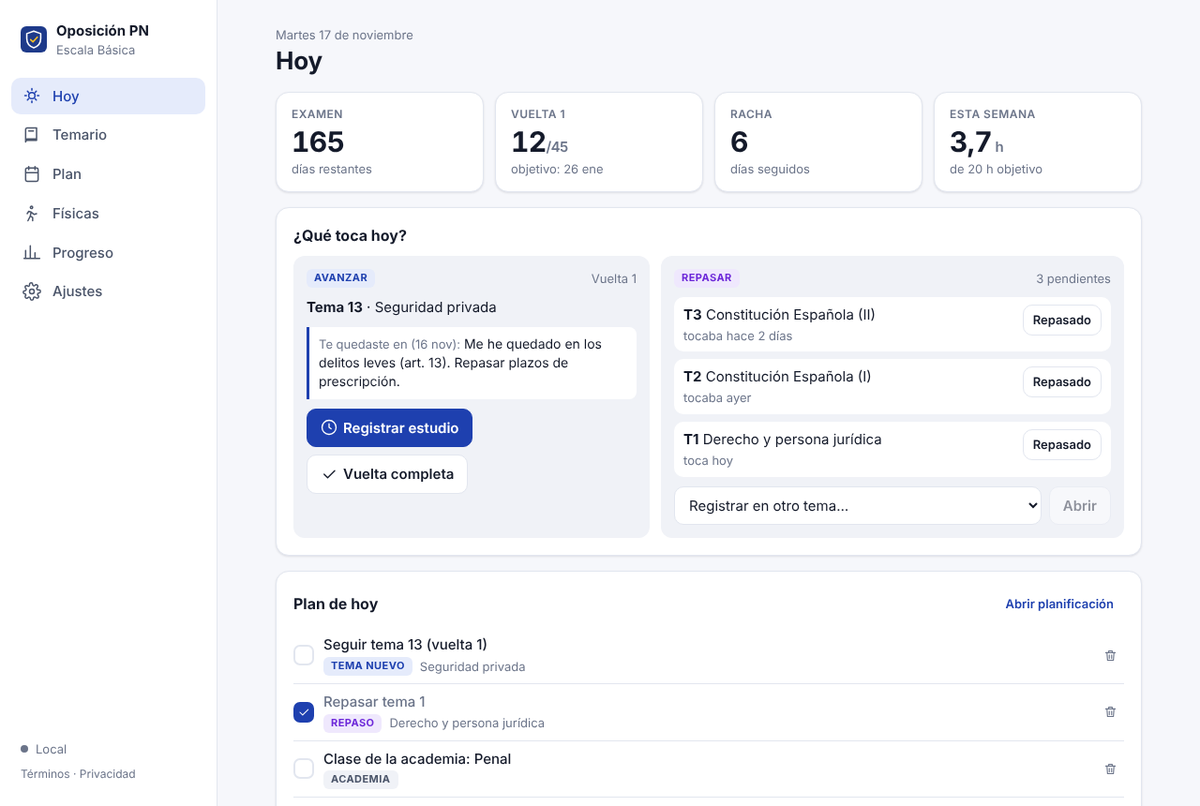
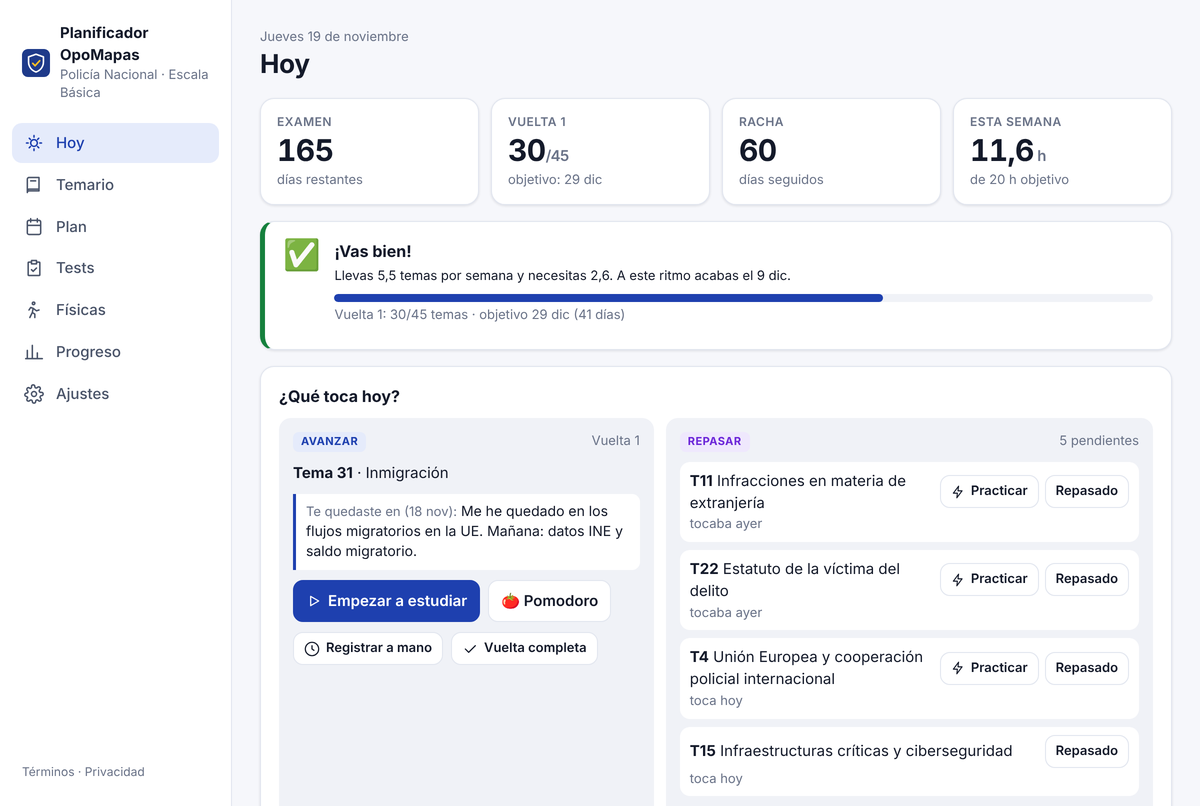
Renombrar la app a Planificador OpoMapas (Policía Nacional y Guardia Civil)
Claude-Session: https://claude.ai/code/session_01KSN7nYPSk48HiXtgdwnhJn

diff --git a/index.html b/index.html
@@ -10,8 +10,8 @@
     })();
   </script>
   <meta name="viewport" content="width=device-width, initial-scale=1, viewport-fit=cover" />
-  <title>Planificador para la oposición a Policía Nacional · Prueba gratis | OpoMapas</title>
-  <meta name="description" content="Organiza tu oposición a Policía Nacional (Escala Básica): los 45 temas, contador de vueltas, repasos, plan de estudio automático y pruebas físicas. Prueba gratis 3 días, pago único de 9,99 €." />
+  <title>Planificador de oposiciones a Policía Nacional y Guardia Civil · Prueba gratis | OpoMapas</title>
+  <meta name="description" content="Organiza tu oposición a Policía Nacional (Escala Básica) o Guardia Civil (Cabos y Guardias): temario, vueltas, repasos, tests, plan de estudio automático y pruebas físicas. Prueba gratis 3 días, pago único de 9,99 €." />
   <link rel="canonical" href="https://app.opomapas.com/" />
   <meta name="theme-color" content="#f6f7fb" media="(prefers-color-scheme: light)" />
   <meta name="theme-color" content="#0d1220" media="(prefers-color-scheme: dark)" />
@@ -21,15 +21,15 @@
   <meta property="og:site_name" content="OpoMapas" />
   <meta property="og:locale" content="es_ES" />
   <meta property="og:url" content="https://app.opomapas.com/" />
-  <meta property="og:title" content="Planificador de tu oposición a Policía Nacional" />
-  <meta property="og:description" content="Vueltas, repasos, plan de estudio y pruebas físicas en PC y móvil. Prueba gratis 3 días, sin tarjeta." />
+  <meta property="og:title" content="Planificador de tu oposición a Policía Nacional o Guardia Civil" />
+  <meta property="og:description" content="Vueltas, repasos, tests, plan de estudio y pruebas físicas en PC y móvil. Policía Nacional y Guardia Civil. Prueba gratis 3 días, sin tarjeta." />
   <meta property="og:image" content="https://app.opomapas.com/og-image.jpg" />
   <meta property="og:image:width" content="1200" />
   <meta property="og:image:height" content="630" />
-  <meta property="og:image:alt" content="Planificador de tu oposición a Policía Nacional, con la pantalla del plan del día" />
+  <meta property="og:image:alt" content="Planificador de tu oposición a Policía Nacional o Guardia Civil, con la pantalla del plan del día" />
   <meta name="twitter:card" content="summary_large_image" />
-  <meta name="twitter:title" content="Planificador de tu oposición a Policía Nacional" />
-  <meta name="twitter:description" content="Vueltas, repasos, plan de estudio y pruebas físicas. Prueba gratis 3 días." />
+  <meta name="twitter:title" content="Planificador de tu oposición a Policía Nacional o Guardia Civil" />
+  <meta name="twitter:description" content="Vueltas, repasos, tests, plan de estudio y pruebas físicas. Policía Nacional y Guardia Civil. Prueba gratis 3 días." />
   <meta name="twitter:image" content="https://app.opomapas.com/og-image.jpg" />
 
   <!-- Datos para Google: aplicación con su precio -->
@@ -37,13 +37,13 @@
   {
     "@context": "https://schema.org",
     "@type": "SoftwareApplication",
-    "name": "Planificador Policía Nacional",
-    "alternateName": "Oposición PN",
+    "name": "Planificador OpoMapas",
+    "alternateName": "Planificador de oposiciones a Policía Nacional y Guardia Civil",
     "applicationCategory": "EducationalApplication",
     "operatingSystem": "Web, Android, iOS, Windows, macOS",
     "url": "https://app.opomapas.com/",
     "image": "https://app.opomapas.com/og-image.jpg",
-    "description": "Aplicación web para organizar la oposición a la Escala Básica de la Policía Nacional: 45 temas, contador de vueltas, registro de estudio, repasos, plan automático y pruebas físicas.",
+    "description": "Aplicación web para organizar la oposición a la Escala Básica de la Policía Nacional o a la Escala de Cabos y Guardias de la Guardia Civil: temario, contador de vueltas, registro de estudio, repasos, tests y simulacros, plan automático y pruebas físicas.",
     "inLanguage": "es",
     "offers": { "@type": "Offer", "price": "9.99", "priceCurrency": "EUR", "url": "https://www.opomapas.com/products/planificador-policia-nacional-acceso-de-por-vida" },
     "publisher": { "@type": "Organization", "name": "OpoMapas", "url": "https://www.opomapas.com/" }
@@ -62,22 +62,24 @@
     Si cambias precios o textos en app-config.js, actualízalos también aquí.
   -->
   <div id="app"><div class="landing">
-    <header class="l-top"><a class="brand" href="/"><img src="icon.svg" alt="" width="30" height="30" /><div><b>Oposición PN</b><span class="muted small">Escala Básica</span></div></a></header>
+    <header class="l-top"><a class="brand" href="/"><img src="icon.svg" alt="" width="30" height="30" /><div><b>Planificador OpoMapas</b><span class="muted small">Policía Nacional y Guardia Civil</span></div></a></header>
     <section class="hero">
       <div class="hero-txt">
         <span class="pill">Prueba gratis 3 días · sin tarjeta</span> <span class="pill oferta-pill">Oferta de lanzamiento: 9,99 €</span>
-        <h1>Planifica tu oposición a Policía Nacional y da vueltas al temario sin perder el hilo.</h1>
-        <p class="lead">Vueltas, repasos, horas de estudio, plan semanal y pruebas físicas en un solo sitio. Pensado para la Escala Básica.</p>
+        <h1>Planifica tu oposición a Policía Nacional o Guardia Civil y da vueltas al temario sin perder el hilo.</h1>
+        <p class="lead">Vueltas, repasos, tests, horas de estudio, plan semanal y pruebas físicas en un solo sitio. Para la Escala Básica de Policía Nacional y la Escala de Cabos y Guardias de Guardia Civil.</p>
         <p class="muted small">Después, pago único de <b>9,99 €</b> <s>19,99 €</s> para siempre. Sin suscripciones.</p>
       </div>
       <div class="hero-img"><img src="captura.png" alt="Pantalla principal de la aplicación con el plan del día" width="1200" height="806" /></div>
     </section>
     <section class="feats">
-      <div class="feat"><h3>Los 45 temas, ordenados</h3><p>Ciencias Jurídicas, Sociales y Técnico-científicas. Clasifica cada tema: No lo sé, Flojo, Bien o Dominado.</p></div>
+      <div class="feat"><h3>Todo el temario, ordenado</h3><p>Los 45 temas de Policía Nacional o los 22 de Guardia Civil. Clasifica cada tema: No lo sé, Flojo, Bien o Dominado.</p></div>
       <div class="feat"><h3>Vueltas bajo control</h3><p>Contador de vueltas por tema y fecha objetivo para cerrar cada vuelta. Tú decides cuándo vuelves a cada tema.</p></div>
       <div class="feat"><h3>Por dónde te quedaste</h3><p>Registra cada sesión con minutos y una nota, o usa el temporizador y el Pomodoro. Al volver, sabes exactamente dónde retomar.</p></div>
       <div class="feat"><h3>Plan automático</h3><p>Reparte los temas que faltan hasta tu fecha objetivo, día a día, y añade tus clases y simulacros.</p></div>
-      <div class="feat"><h3>Pruebas físicas</h3><p>Agilidad, dominadas o suspensión y 1000 m: evolución de tus marcas y nota orientativa.</p></div>
+      <div class="feat"><h3>Tests y simulacros</h3><p>Apunta cada test: tu nota con la fórmula del examen, su evolución y los temas en los que más fallas.</p></div>
+      <div class="feat"><h3>Repaso rápido</h3><p>Preguntas tipo test y trampas de examen de cada tema, de OpoMapas, para repasar en 5 minutos.</p></div>
+      <div class="feat"><h3>Pruebas físicas</h3><p>Policía Nacional: nota orientativa de cada prueba. Guardia Civil: apto o no apto según tu edad.</p></div>
       <div class="feat"><h3>PC y móvil</h3><p>Sincronizado en todos tus dispositivos, instalable como app y funciona sin conexión.</p></div>
     </section>
     <section class="price-wrap"><div class="price">
@@ -89,11 +91,12 @@
       <details><summary>¿Necesito tarjeta para la prueba?</summary><p>No. Entras con tu cuenta de Google y tienes 3 días con todo desbloqueado.</p></details>
       <details><summary>¿Qué pasa cuando acaba la prueba?</summary><p>Si te convence, haces un único pago de 9,99 € y sigues donde lo dejaste: tus datos se conservan.</p></details>
       <details><summary>¿De por vida significa sin suscripción?</summary><p>Sí: pagas una vez y tienes acceso mientras el servicio exista, con todas las mejoras que se vayan añadiendo.</p></details>
-      <details><summary>¿Incluye temario o test?</summary><p>No. Es un planificador: organiza tu estudio con los apuntes y test de tu academia o los tuyos propios. Los mapas del temario están en la tienda OpoMapas.</p></details>
-      <details><summary>¿Es una herramienta oficial?</summary><p>No. Es una herramienta independiente, sin relación con la Dirección General de la Policía ni con el Ministerio del Interior.</p></details>
+      <details><summary>¿Sirve para Guardia Civil?</summary><p>Sí. Al empezar eliges Policía Nacional (Escala Básica) o Guardia Civil (Escala de Cabos y Guardias) y la app se adapta: temario, pruebas físicas y nota de los tests. Puedes cambiar cuando quieras.</p></details>
+      <details><summary>¿Incluye temario o test?</summary><p>No incluye el temario: organiza tu estudio con tus apuntes o los de tu academia. Sí trae un repaso rápido con preguntas tipo test y trampas de examen de cada tema (de OpoMapas, de elaboración propia) y te deja apuntar tus tests y simulacros. Los mapas del temario están en la tienda OpoMapas.</p></details>
+      <details><summary>¿Es una herramienta oficial?</summary><p>No. Es una herramienta independiente, sin relación con la Policía Nacional, la Guardia Civil ni el Ministerio del Interior.</p></details>
     </section>
     <footer class="l-foot"><div><a href="https://www.opomapas.com/?utm_source=app&amp;utm_medium=pie&amp;utm_campaign=planificador">Tienda OpoMapas</a></div>
-      <p class="muted small">Oposición PN es una herramienta independiente y no está vinculada a la Policía Nacional ni al Ministerio del Interior.</p></footer>
+      <p class="muted small">Planificador OpoMapas es una herramienta independiente y no está vinculada a la Policía Nacional, a la Guardia Civil ni al Ministerio del Interior.</p></footer>
   </div></div>
   <script type="module" src="app.js"></script>
 </body>

diff --git a/app-config.js b/app-config.js
@@ -5,8 +5,8 @@
 // =====================================================================
 export default {
   // --- Marca ---
-  nombre: 'Oposición PN',
-  subtitulo: 'Escala Básica',
+  nombre: 'Planificador OpoMapas',
+  subtitulo: 'Policía Nacional y Guardia Civil',
   // Aparece en la portada. No uses logos ni nombres que parezcan oficiales.
   eslogan: 'Planifica tu oposición a Policía Nacional o Guardia Civil y da vueltas al temario sin perder el hilo.',
 
@@ -18,7 +18,7 @@ export default {
   // Días de prueba gratis. ⚠ Si lo cambias, cambia también el número en firestore.rules
   // (duration.value(3, 'd')) o la app y la base de datos no coincidirán.
   diasPrueba: 3,
-  // Enlace de compra. Ahora apunta al producto "Planificador Policía Nacional · Acceso de por vida"
+  // Enlace de compra. Ahora apunta al producto "Planificador de oposiciones: Policía Nacional y Guardia Civil · Acceso de por vida"
   // de tu tienda Shopify (variante 61721546948942). También sirve cualquier otra plataforma de pago.
   // Puedes usar {email} y {uid}: se sustituyen por los del usuario para que el pago
   // llegue con su email ya rellenado. Ejemplos:

diff --git a/app.js b/app.js
@@ -1517,7 +1517,7 @@ function App() {
   const active = route === 'tema' ? 'temario' : route === 'cuenta' ? 'ajustes' : route;
   return html`<div class="shell">
     <nav class="side" aria-label="Secciones">
-      <div class="brand"><img src="icon.svg" alt="" width="28" height="28" /><div><b>${L.OPO.marca}</b><span class="muted small">${L.OPO.escala}</span></div></div>
+      <div class="brand"><img src="icon.svg" alt="" width="28" height="28" /><div><b>${CONFIG.nombre}</b><span class="muted small">${L.OPO.nombre} · ${L.OPO.escala}</span></div></div>
       ${NAV.map(([k, l]) => html`<a class=${'nav ' + (active === k ? 'on' : '')} href=${'#/' + k} aria-current=${active === k ? 'page' : null}><${Icon} n=${k} /><span>${l}</span></a>`)}
       ${acceso.esAdmin ? html`<a class=${'nav desk ' + (active === 'admin' ? 'on' : '')} href="#/admin"><${Icon} n="admin" /><span>Admin</span></a>` : null}
       <div class="side-f"><${SyncDot} /><div class="legal-links"><a href="#/legal/terminos">Términos</a> · <a href="#/legal/privacidad">Privacidad</a></div></div>

diff --git a/404.html b/404.html
@@ -1,5 +1,5 @@
 <!doctype html>
 <html lang="es"><head><meta charset="utf-8" /><meta name="viewport" content="width=device-width, initial-scale=1" />
-<title>Página no encontrada · Oposición PN</title><meta name="robots" content="noindex" /><link rel="stylesheet" href="/styles.css" /></head>
+<title>Página no encontrada · Planificador OpoMapas</title><meta name="robots" content="noindex" /><link rel="stylesheet" href="/styles.css" /></head>
 <body><div class="splash"><img src="/icon.svg" alt="" width="56" height="56" /><h1>Página no encontrada</h1>
 <p class="muted">La dirección no existe.</p><a class="btn primary" href="/">Ir al planificador</a></div></body></html>

diff --git a/VENDER.md b/VENDER.md
@@ -4,7 +4,7 @@
 
 1. Alguien entra en la web de la app y ve la **portada** con precio y preguntas frecuentes.
 2. Pulsa **"Empezar prueba gratis con Google"**. Se crea su cuenta y empiezan sus **3 días de prueba** con todo desbloqueado. La fecha de inicio la pone el servidor de Google, así que no se puede trucar.
-3. Al acabar la prueba ve la **pantalla de pago**. El botón abre tu tienda **OpoMapas** con el producto *Planificador Policía Nacional · Acceso de por vida* (19,99 €) en el carrito, su email rellenado y su cuenta de la app vinculada al pedido.
+3. Al acabar la prueba ve la **pantalla de pago**. El botón abre tu tienda **OpoMapas** con el producto *Planificador de oposiciones: Policía Nacional y Guardia Civil · Acceso de por vida* en el carrito, su email rellenado y su cuenta de la app vinculada al pedido.
 4. Al pagar, Shopify avisa al **activador automático** (`shopify-worker/worker.js`, un Cloudflare Worker gratuito). Este guarda la licencia en Firebase y **la app se desbloquea sola en segundos**.
 5. Si alguien compra directamente en la tienda, sin pasar por la app, su acceso queda activado para el email del pedido. Le basta con entrar en la app con la cuenta de Google de ese email.
 6. Los **packs** que incluyan el planificador también lo activan si su SKU contiene la palabra `PLANIFICADOR`, por ejemplo `PACK-TODO-PLANIFICADOR`.
@@ -63,7 +63,7 @@ Las normas de GitHub Pages **no permiten** usarlo para un negocio o una tienda o
 4. Pulsa **Enviar notificación de prueba**. No activará a nadie, porque el pedido de prueba no lleva el planificador, pero en Cloudflare → *Registros* verás que llegó.
 
 **4.4 · Publicar el producto**
-- En Shopify → Productos → *Planificador Policía Nacional · Acceso de por vida*: revisa el texto, añade el enlace a la app en la descripción y pon el estado en **Activo**, con el canal **Tienda online** marcado.
+- En Shopify → Productos → *Planificador de oposiciones: Policía Nacional y Guardia Civil · Acceso de por vida*: revisa el texto, añade el enlace a la app en la descripción y pon el estado en **Activo**, con el canal **Tienda online** marcado.
 - **Pack con todo:** crea el producto o variante con el precio que quieras y pon un **SKU que contenga `PLANIFICADOR`**, por ejemplo `PACK-TODO-PLANIFICADOR`. Para entregar también los PDF de los mapas, adjúntalos como en tus otros packs.
 
 **4.5 · Prueba real**
@@ -81,7 +81,7 @@ Crea un código de descuento del 100 % solo para ti, compra el planificador con 
 - **Alta como autónomo** (modelo 036/037 en Hacienda y RETA en la Seguridad Social) si la venta es habitual. Pregunta a un gestor por tu caso concreto.
 - **IVA**: vendiendo en Shopify **tú** eres el vendedor y declaras el IVA, como ya haces con los mapas. Por debajo de 10.000 €/año de ventas a otros países de la UE aplicas el IVA español. Configura los impuestos en Shopify → *Impuestos y aranceles*.
 - **Textos legales**: la app trae Aviso legal, Privacidad y Términos como **plantillas**. Revísalos con tu gestor o con un abogado antes de vender.
-- **Marca**: no uses escudos, logos ni colores oficiales de la Policía Nacional, ni digas que es oficial. La app ya incluye el aviso de que es independiente.
+- **Marca**: no uses escudos, logos ni colores oficiales de la Policía Nacional ni de la Guardia Civil, ni digas que es oficial. La app ya incluye el aviso de que es independiente.
 
 ## Costes y límites
 

diff --git a/LEEME.md b/LEEME.md
@@ -1,4 +1,4 @@
-# Oposición PN · Planificador
+# Planificador OpoMapas · Policía Nacional y Guardia Civil
 
 > 💶 **¿Quieres venderla?** Lee **[VENDER.md](VENDER.md)**: prueba gratis de 3 días, pago único y panel de administración.
 
